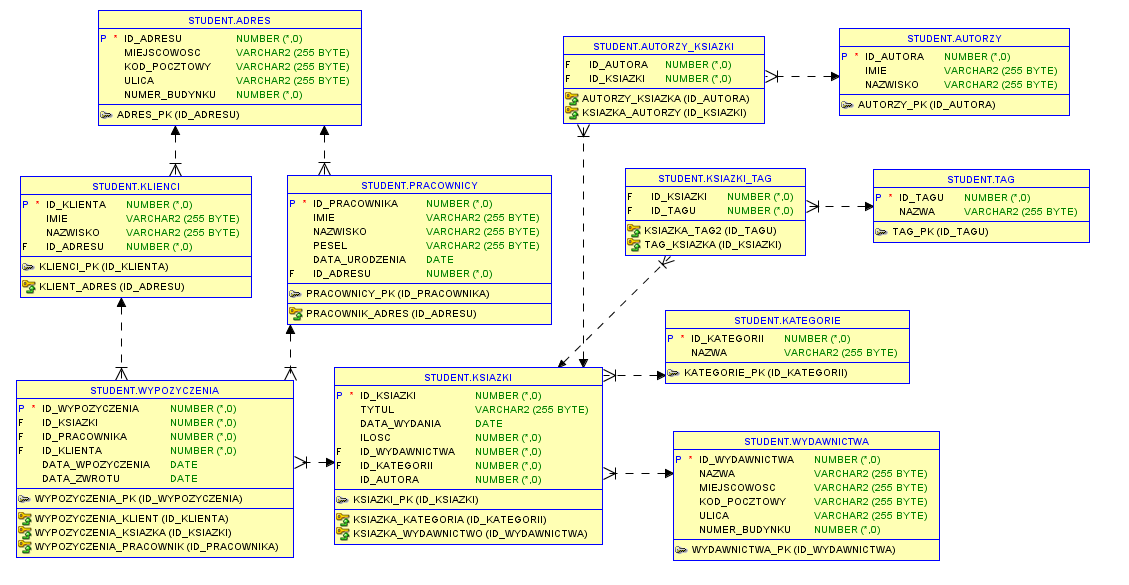
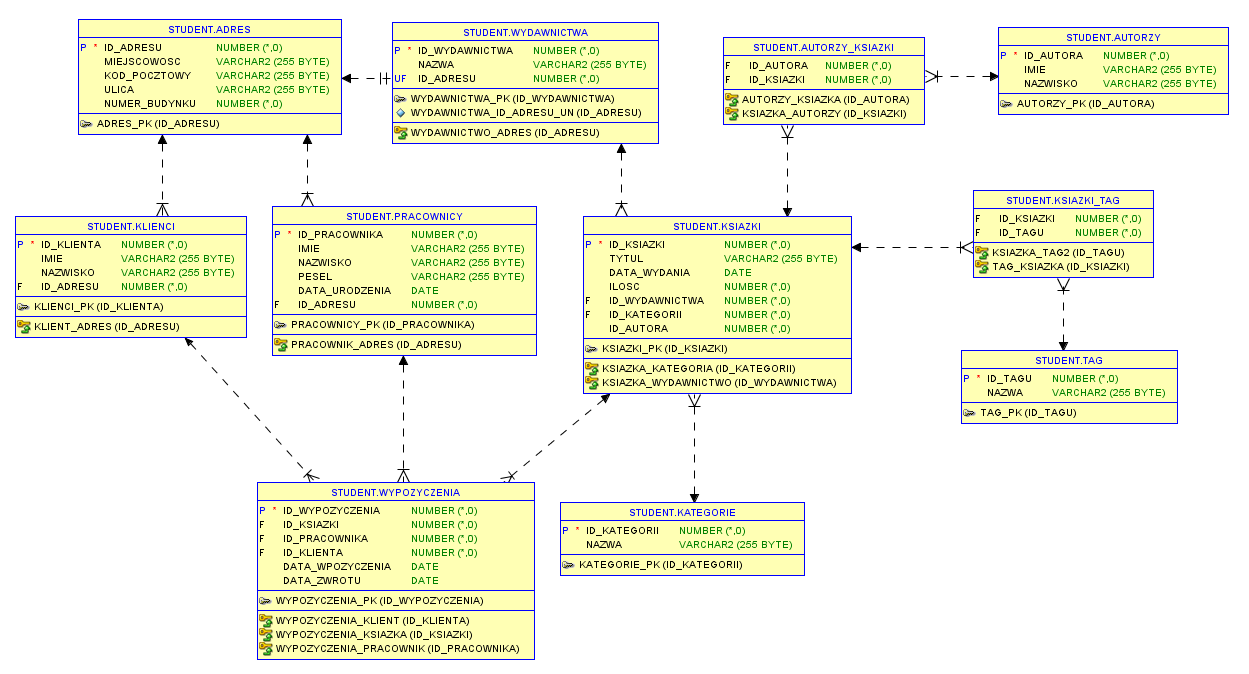
erd update

diff --git a/docs/Opis Projektu.md b/docs/Opis Projektu.md
@@ -57,10 +57,7 @@ CREATE TABLE tag (
 CREATE TABLE wydawnictwa (
   id_wydawnictwa int PRIMARY KEY,
   nazwa varchar(255),
-  miejscowosc varchar(255),
-  kod_pocztowy varchar(255),
-  ulica varchar(255),
-  numer_budynku int
+  id_adresu int
 );
 CREATE TABLE autorzy (
   id_autora int PRIMARY KEY,
